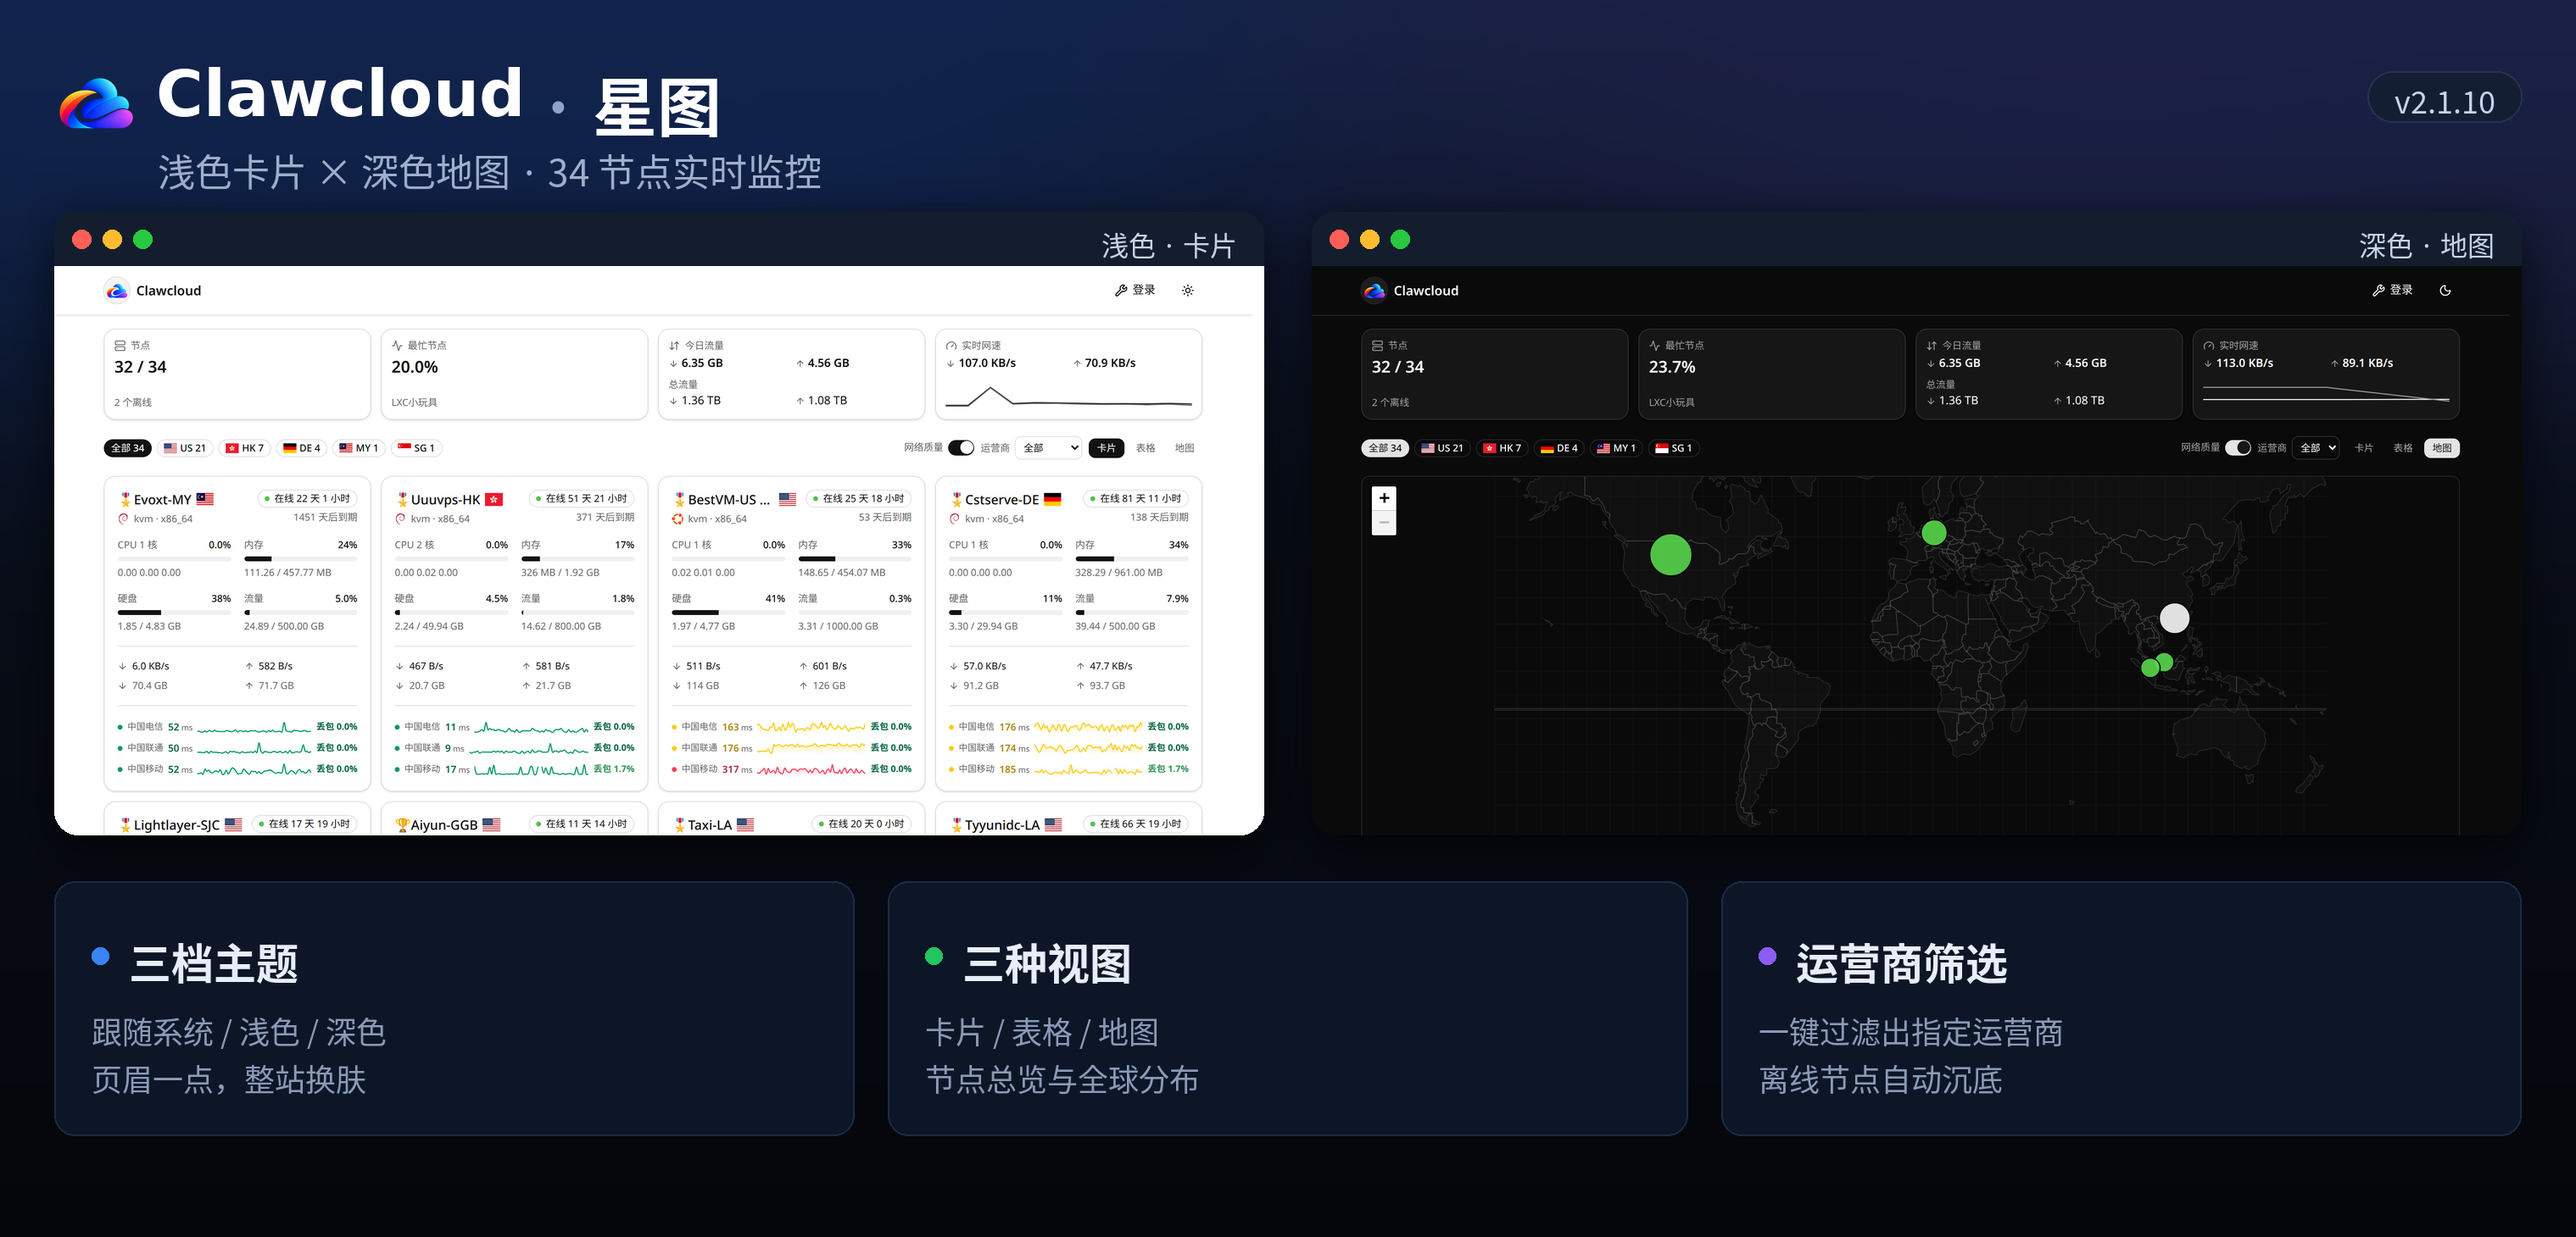
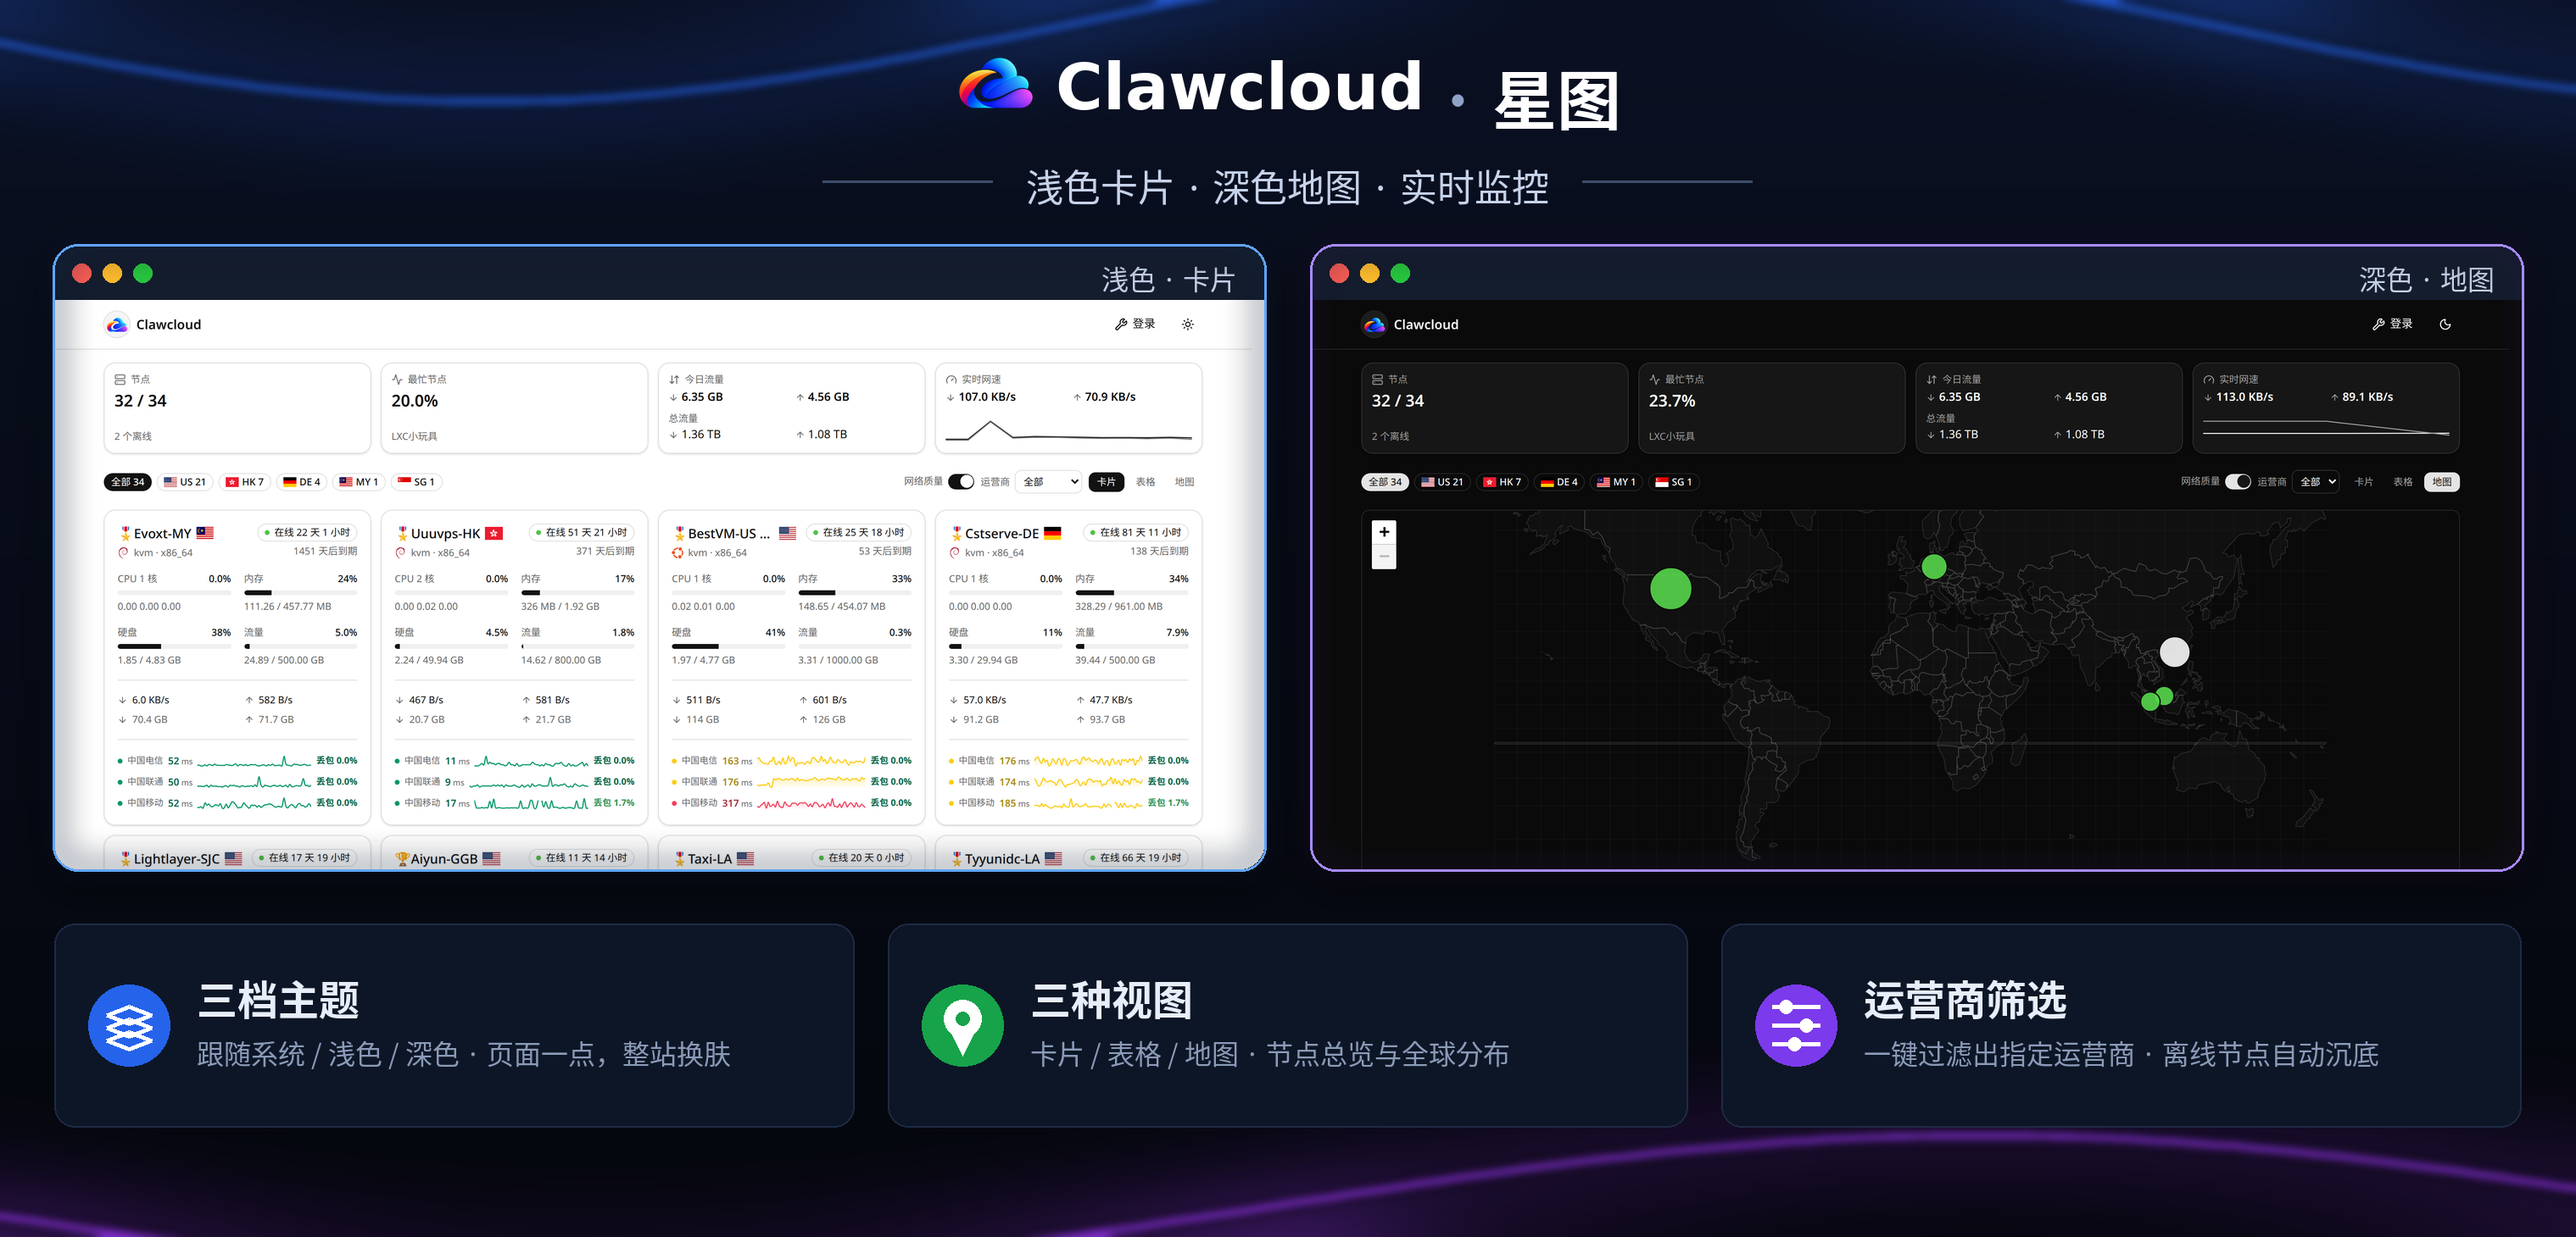
docs: preview.png 按参考布局重做（居中页眉 + 光带 + 发光窗框 + 图标特性卡，去版本号）

diff --git a/.agents/skills/theme-preview/scripts/design-windows.py b/.agents/skills/theme-preview/scripts/design-windows.py
@@ -1,25 +1,31 @@
 #!/usr/bin/env python3
-"""Design the theme preview as our own composition — NOT the old diagonal split.
+"""Design the theme preview — our own layout, following the reference the
+user gave (2026-11-11): centred header, flowing light ribbons, glowing
+browser windows, icon feature cards. No version pill.
 
-Layout (3038x1460): deep-navy gradient canvas with a soft blue glow,
-header (Clawcloud logo + title + tagline + version pill), two browser
-windows side by side (left: light cards view, right: dark map view,
-each with traffic-light dots, a URL pill and a mode label), and a bottom
-strip of three feature cards.
+Layout (3038x1460): deep-navy gradient canvas with a blue ribbon sweeping
+the top and a purple ribbon along the bottom; centred header (Clawcloud logo
++ title, tagline flanked by rules); two browser windows side by side with
+glow borders (left blue, right violet), each with traffic-light dots and a
+mode label, no URL pill and no address bar; bottom strip of three feature
+cards, each with a circular icon, a title and a one-line description.
 
     python3 design-windows.py --light light.png --dark dark.png \
-        --logo public/brand-logo.png --out preview.png [--version v2.1.10]
+        --logo public/brand-logo.png --out preview.png
 
-Inputs are the 2978x1400 captures from capture.mjs (live or mock).
-Output is truecolour PNG — the background gradients would band badly
-under the 256-colour indexed encoding compose.mjs uses.
+Inputs are the 2978x1400 captures from capture.mjs (live or mock) — the
+windows always show the real screenshots, never mock UI text.
+Output is truecolour PNG — the background gradients and glows would band
+badly under 256-colour indexed encoding.
 """
 import argparse
+import math
 from PIL import Image, ImageDraw, ImageFont, ImageFilter
 
 W, H = 3038, 1460
 CJK_BOLD = "/usr/share/fonts/opentype/noto/NotoSansCJK-Bold.ttc"
 CJK_REG = "/usr/share/fonts/opentype/noto/NotoSansCJK-Regular.ttc"
+LATIN_BOLD = "/usr/share/fonts/truetype/dejavu/DejaVuSans-Bold.ttf"
 
 
 def font(path, size):
@@ -41,36 +47,101 @@ def rounded_mask(w, h, radius):
     return m
 
 
+def ribbon(points, color, width, blur):
+    """A glowing curved band on its own layer: thick blurred stroke + thin core."""
+    layer = Image.new("RGBA", (W, H), (0, 0, 0, 0))
+    d = ImageDraw.Draw(layer)
+    d.line(points, fill=color + (110,), width=width, joint="curve")
+    layer = layer.filter(ImageFilter.GaussianBlur(blur))
+    core = Image.new("RGBA", (W, H), (0, 0, 0, 0))
+    dc = ImageDraw.Draw(core)
+    dc.line(points, fill=color + (200,), width=max(10, width // 7), joint="curve")
+    core = core.filter(ImageFilter.GaussianBlur(6))
+    layer.alpha_composite(core)
+    return layer
+
+
+def wave_points(x0, x1, y_base, amp, waves, step=24):
+    pts = []
+    x = x0
+    while x <= x1:
+        t = (x - x0) / max(1, (x1 - x0))
+        pts.append((x, y_base + amp * math.sin(t * math.pi * 2 * waves)))
+        x += step
+    return pts
+
+
 def window_image(shot, label):
     """One browser window: 1427x736, dark title bar + screenshot content."""
     ww, wh, bar = 1427, 736, 64
     win = Image.new("RGBA", (ww, wh), (20, 29, 46, 255))
     d = ImageDraw.Draw(win)
-    # traffic lights
     for i, c in enumerate([(255, 95, 87), (254, 188, 46), (40, 200, 64)]):
         d.ellipse([32 + i * 36 - 11, bar // 2 - 11, 32 + i * 36 + 11, bar // 2 + 11], fill=c)
     # no URL pill: the user does not want the panel address in the image
-    # mode label, right
     f_lab = font(CJK_REG, 32)
     d.text((ww - 32 - d.textlength(label, font=f_lab), bar // 2 - 18),
            label, font=f_lab, fill=(199, 211, 234, 255))
-    # content
     shot = shot.resize((ww, wh - bar), Image.LANCZOS)
     win.paste(shot, (0, bar))
     win.putalpha(rounded_mask(ww, wh, 28))
     return win
 
 
-def feature_card(canvas, x, y, w, h, dot, title, lines):
+def glow_border(canvas, x, y, w, h, color, light):
+    """A coloured glow around a rounded rect, plus a crisp bright outline."""
+    glow = Image.new("RGBA", (W, H), (0, 0, 0, 0))
+    dg = ImageDraw.Draw(glow)
+    dg.rounded_rectangle([x - 4, y - 4, x + w + 4, y + h + 4], radius=32,
+                         outline=color + (255,), width=10)
+    glow = glow.filter(ImageFilter.GaussianBlur(18))
+    canvas.alpha_composite(glow)
+    d = ImageDraw.Draw(canvas, "RGBA")
+    d.rounded_rectangle([x - 2, y - 2, x + w + 2, y + h + 2], radius=30,
+                        outline=light + (255,), width=3)
+
+
+def draw_layers_icon(d, cx, cy, s):
+    """Three stacked chevrons, white outline."""
+    for i in range(3):
+        y = cy - 16 + i * 15
+        d.line([(cx - s, y), (cx, y - 10), (cx + s, y), (cx, y + 10), (cx - s, y)],
+               fill=(255, 255, 255, 255), width=5, joint="curve")
+
+
+def draw_pin_icon(d, cx, cy):
+    """Location pin: white teardrop with a coloured centre dot."""
+    d.ellipse([cx - 22, cy - 30, cx + 22, cy + 14], fill=(255, 255, 255, 255))
+    d.polygon([(cx - 17, cy + 2), (cx + 17, cy + 2), (cx, cy + 36)], fill=(255, 255, 255, 255))
+    d.ellipse([cx - 8, cy - 16, cx + 8, cy], fill=(22, 163, 74, 255))
+
+
+def draw_sliders_icon(d, cx, cy):
+    """Three horizontal lines with a knob on each."""
+    for j, kx in enumerate([-12, 12, -2]):
+        y = cy - 22 + j * 22
+        d.line([(cx - 28, y), (cx + 28, y)], fill=(255, 255, 255, 255), width=5)
+        d.ellipse([cx + kx - 8, y - 8, cx + kx + 8, y + 8], fill=(255, 255, 255, 255))
+
+
+def feature_card(canvas, x, y, w, h, color, icon, title, desc):
     d = ImageDraw.Draw(canvas, "RGBA")
     d.rounded_rectangle([x, y, x + w, y + h], radius=24,
                         fill=(13, 22, 38, 255), outline=(30, 42, 68, 255), width=2)
-    f_t = font(CJK_BOLD, 50)
-    f_d = font(CJK_REG, 36)
-    d.ellipse([x + 44, y + 78, x + 64, y + 98], fill=dot)
-    d.text((x + 88, y + 58), title, font=f_t, fill=(232, 238, 249, 255))
-    for i, line in enumerate(lines):
-        d.text((x + 44, y + 150 + i * 56), line, font=f_d, fill=(139, 155, 184, 255))
+    # circular icon badge, left
+    icx, icy, ir = x + 88, y + h // 2, 48
+    d.ellipse([icx - ir, icy - ir, icx + ir, icy + ir], fill=color + (255,))
+    if icon == "layers":
+        draw_layers_icon(d, icx, icy + 4, 26)
+    elif icon == "pin":
+        draw_pin_icon(d, icx, icy)
+    else:
+        draw_sliders_icon(d, icx, icy)
+    f_t = font(CJK_BOLD, 48)
+    f_d = font(CJK_REG, 32)
+    tx = x + 168
+    d.text((tx, y + 52), title, font=f_t, fill=(232, 238, 249, 255))
+    d.text((tx, y + 128), desc, font=f_d, fill=(139, 155, 184, 255))
 
 
 def main():
@@ -79,68 +150,66 @@ def main():
     ap.add_argument("--dark", required=True)
     ap.add_argument("--logo", required=True)
     ap.add_argument("--out", required=True)
-    ap.add_argument("--version", default="v2.1.10")
-    ap.add_argument("--tagline", default="浅色卡片 × 深色地图 · 34 节点实时监控")
+    ap.add_argument("--tagline", default="浅色卡片 · 深色地图 · 实时监控")
     args = ap.parse_args()
 
-    canvas = vgrad((11, 18, 32), (4, 6, 11)).convert("RGBA")
+    canvas = vgrad((10, 16, 34), (4, 6, 12)).convert("RGBA")
 
-    # soft blue glows, top corners
-    glow = Image.new("RGBA", (W, H), (0, 0, 0, 0))
-    gd = ImageDraw.Draw(glow)
-    gd.ellipse([-500, -420, 1700, 620], fill=(37, 99, 235, 55))
-    gd.ellipse([1500, -460, 3500, 580], fill=(99, 102, 241, 45))
-    glow = glow.filter(ImageFilter.GaussianBlur(200))
-    canvas.alpha_composite(glow)
+    # flowing light ribbons: blue across the top, purple along the bottom
+    canvas.alpha_composite(ribbon(wave_points(-100, 3150, 30, 90, 1.2), (37, 99, 235), 110, 70))
+    canvas.alpha_composite(ribbon(wave_points(-100, 3150, 1420, 80, 1.0), (147, 51, 234), 110, 70))
 
     d = ImageDraw.Draw(canvas, "RGBA")
-    # header: logo + title + tagline. Keep the lockup modest: the old 96px
-    # title + 128px rainbow logo overpowered the windows below. Latin wordmark
-    # in DejaVu Bold (cleaner Latin glyphs than Noto CJK's), CJK in Noto Bold,
-    # title/tagline ratio ~1.7 instead of 2.4 so the two lines sit together.
+    # centred header: logo + title on one row, tagline flanked by rules
     logo = Image.open(args.logo).convert("RGBA").resize((96, 96), Image.LANCZOS)
-    canvas.alpha_composite(logo, (64, 72))
-    f_lat = font("/usr/share/fonts/truetype/dejavu/DejaVuSans-Bold.ttf", 76)
+    f_lat = font(LATIN_BOLD, 76)
     f_cjk = font(CJK_BOLD, 76)
-    tx, ty = 184, 66
+    title_w = d.textlength("Clawcloud", font=f_lat) + d.textlength(" · 星图", font=f_cjk)
+    group_w = 96 + 24 + title_w
+    gx = (W - group_w) // 2
+    canvas.alpha_composite(logo, (int(gx), 48))
+    tx, ty = int(gx + 120), 58
     d.text((tx, ty), "Clawcloud", font=f_lat, fill=(255, 255, 255, 255))
     x1 = tx + d.textlength("Clawcloud", font=f_lat)
     d.text((x1, ty), " · ", font=f_cjk, fill=(143, 163, 200, 255))
     x2 = x1 + d.textlength(" · ", font=f_cjk)
     d.text((x2, ty), "星图", font=f_cjk, fill=(255, 255, 255, 255))
+    # tagline with rules on both sides
     f_tag = font(CJK_REG, 44)
-    d.text((186, 168), args.tagline, font=f_tag, fill=(159, 176, 204, 255))
-    # version pill, top right
-    f_ver = font(CJK_REG, 36)
-    ver = args.version
-    vw = int(d.textlength(ver, font=f_ver)) + 64
-    vx = W - 64 - vw
-    d.rounded_rectangle([vx, 84, vx + vw, 144], radius=30,
-                        fill=(19, 30, 51, 255), outline=(38, 51, 79, 255), width=2)
-    d.text((vx + 32, 92), ver, font=f_ver, fill=(199, 211, 234, 255))
+    tag_w = d.textlength(args.tagline, font=f_tag)
+    tag_x = (W - tag_w) // 2
+    tag_y = 186
+    d.text((tag_x, tag_y), args.tagline, font=f_tag, fill=(199, 211, 234, 255))
+    rule_y = tag_y + 28
+    d.line([(tag_x - 240, rule_y), (tag_x - 40, rule_y)], fill=(61, 78, 107, 255), width=3)
+    d.line([(tag_x + tag_w + 40, rule_y), (tag_x + tag_w + 240, rule_y)], fill=(61, 78, 107, 255), width=3)
 
-    # windows
+    # windows with glow borders
     light = Image.open(args.light).convert("RGB")
     dark = Image.open(args.dark).convert("RGB")
-    wy = 250
-    for x, shot, label in [(64, light, "浅色 · 卡片"), (1547, dark, "深色 · 地图")]:
+    wy = 290
+    for x, shot, label, color, light_c in [
+        (64, light, "浅色 · 卡片", (59, 130, 246), (96, 165, 250)),
+        (1547, dark, "深色 · 地图", (139, 92, 246), (167, 139, 250)),
+    ]:
         shadow = Image.new("RGBA", (W, H), (0, 0, 0, 0))
         sd = ImageDraw.Draw(shadow)
         sd.rounded_rectangle([x, wy + 16, x + 1427, wy + 736 + 16], radius=28, fill=(0, 0, 0, 170))
         shadow = shadow.filter(ImageFilter.GaussianBlur(26))
         canvas.alpha_composite(shadow)
         canvas.alpha_composite(window_image(shot, label), (x, wy))
+        glow_border(canvas, x, wy, 1427, 736, color, light_c)
 
-    # feature strip
-    fy, fh, gap = 1040, 300, 40
+    # feature strip: icon + title + one-line description
+    fy, fh, gap = 1090, 240, 40
     fw = (W - 128 - 2 * gap) // 3
     feats = [
-        ((59, 130, 246), "三档主题", ["跟随系统 / 浅色 / 深色", "页眉一点，整站换肤"]),
-        ((34, 197, 94), "三种视图", ["卡片 / 表格 / 地图", "节点总览与全球分布"]),
-        ((139, 92, 246), "运营商筛选", ["一键过滤出指定运营商", "离线节点自动沉底"]),
+        ((37, 99, 235), "layers", "三档主题", "跟随系统 / 浅色 / 深色 · 页面一点，整站换肤"),
+        ((22, 163, 74), "pin", "三种视图", "卡片 / 表格 / 地图 · 节点总览与全球分布"),
+        ((124, 58, 237), "sliders", "运营商筛选", "一键过滤出指定运营商 · 离线节点自动沉底"),
     ]
-    for i, (dot, title, lines) in enumerate(feats):
-        feature_card(canvas, 64 + i * (fw + gap), fy, fw, fh, dot, title, lines)
+    for i, (color, icon, title, desc) in enumerate(feats):
+        feature_card(canvas, 64 + i * (fw + gap), fy, fw, fh, color, icon, title, desc)
 
     canvas.convert("RGB").save(args.out, optimize=True)
     print(f"{args.out}: {W}x{H}")
